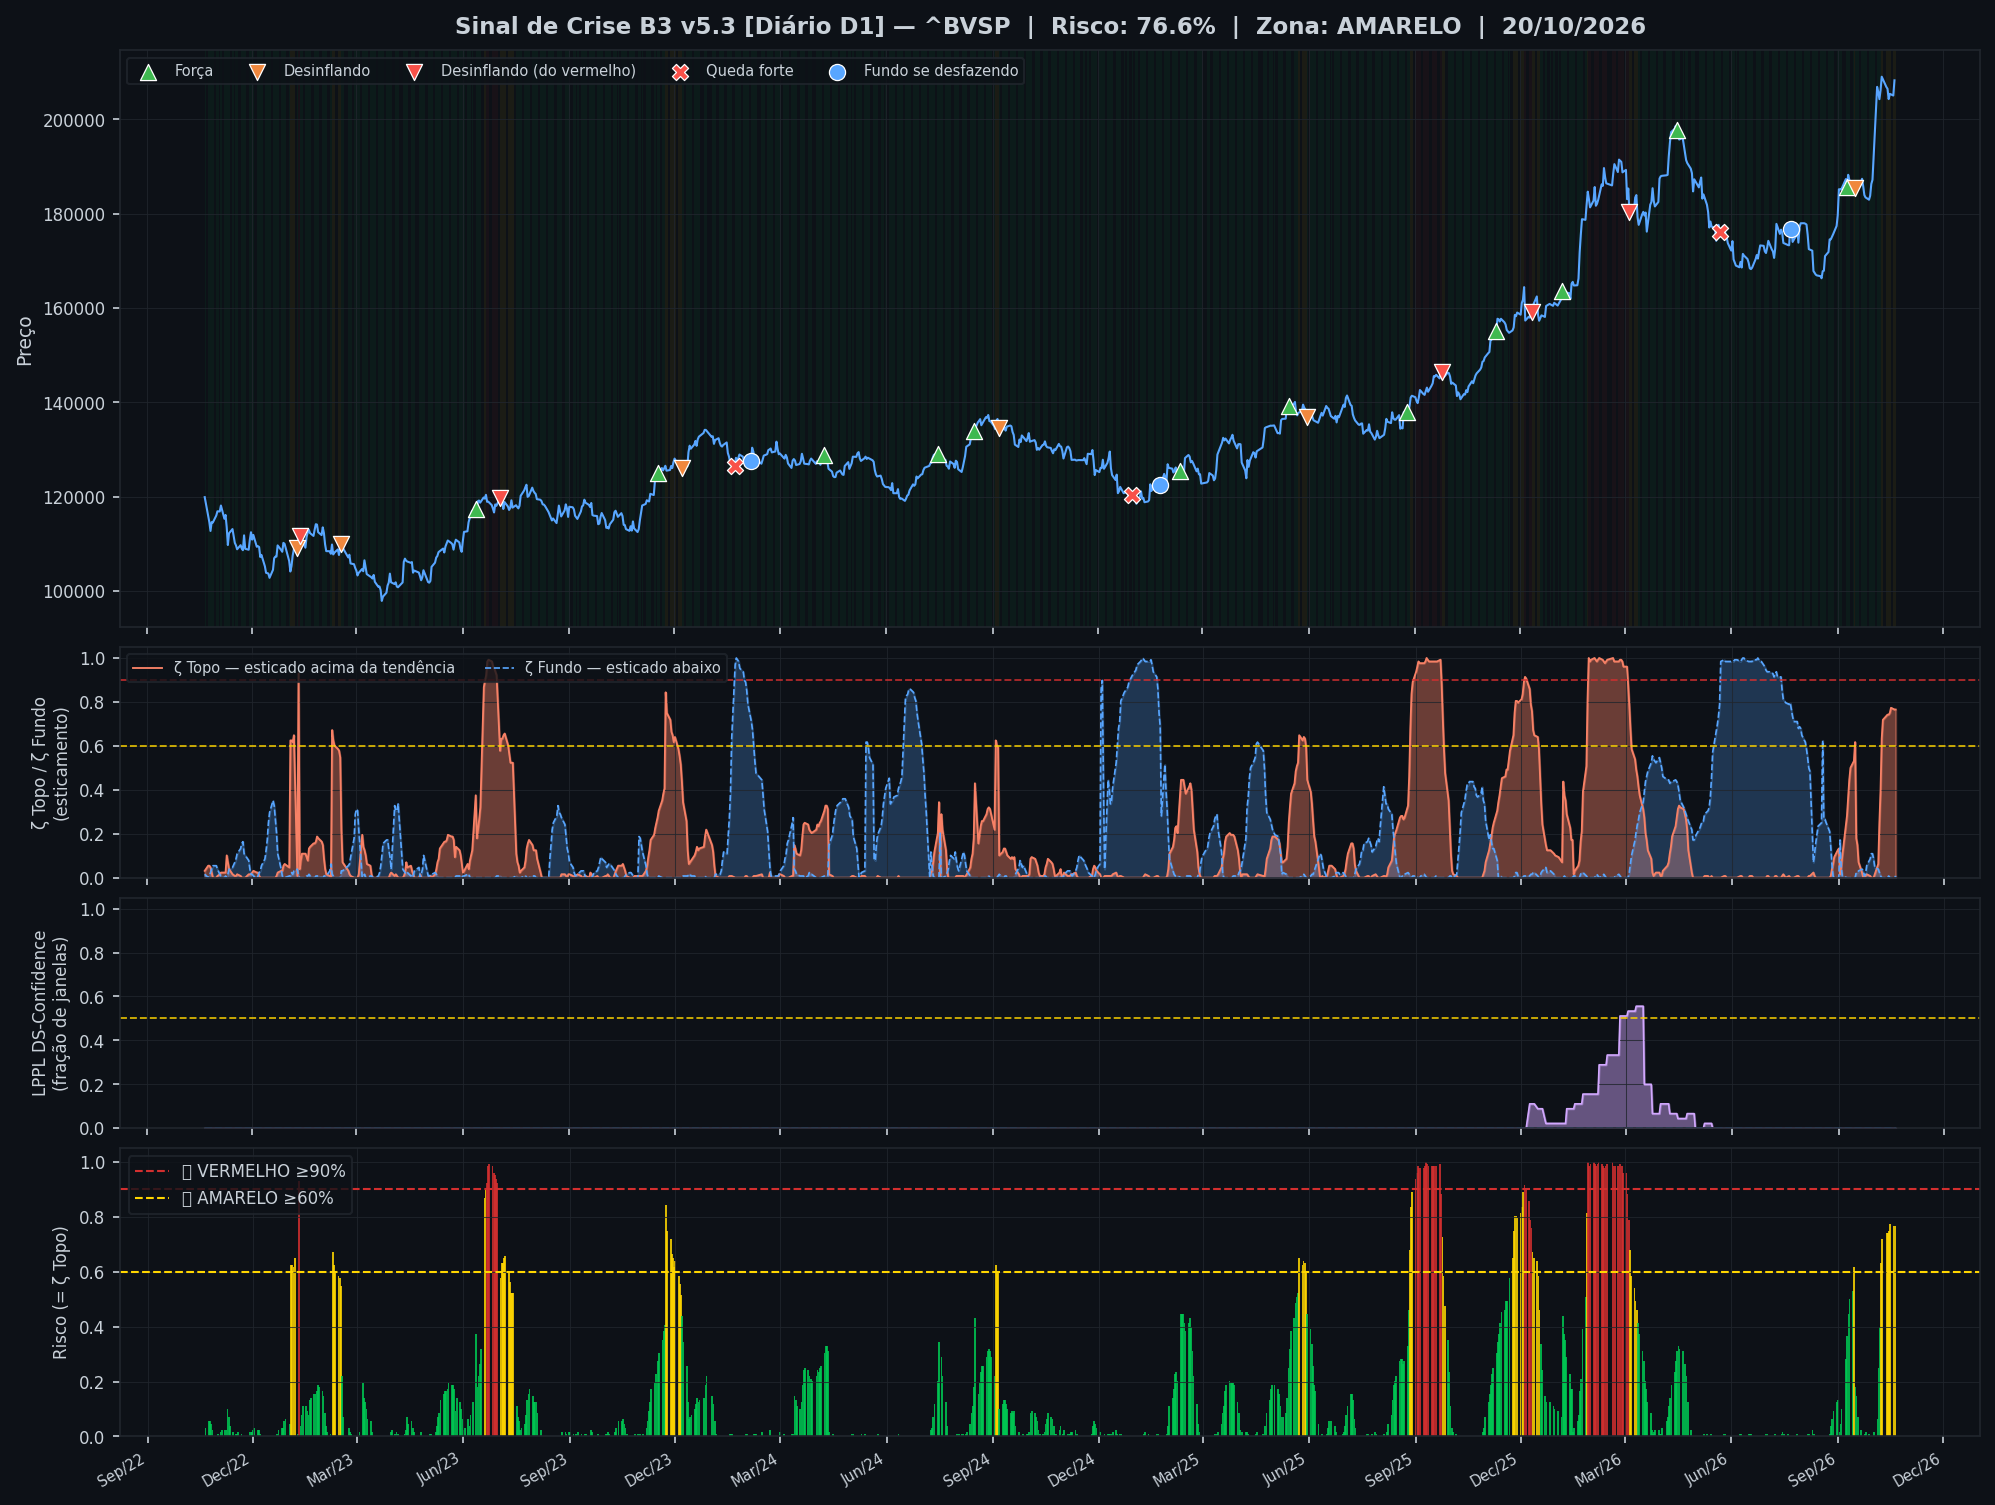
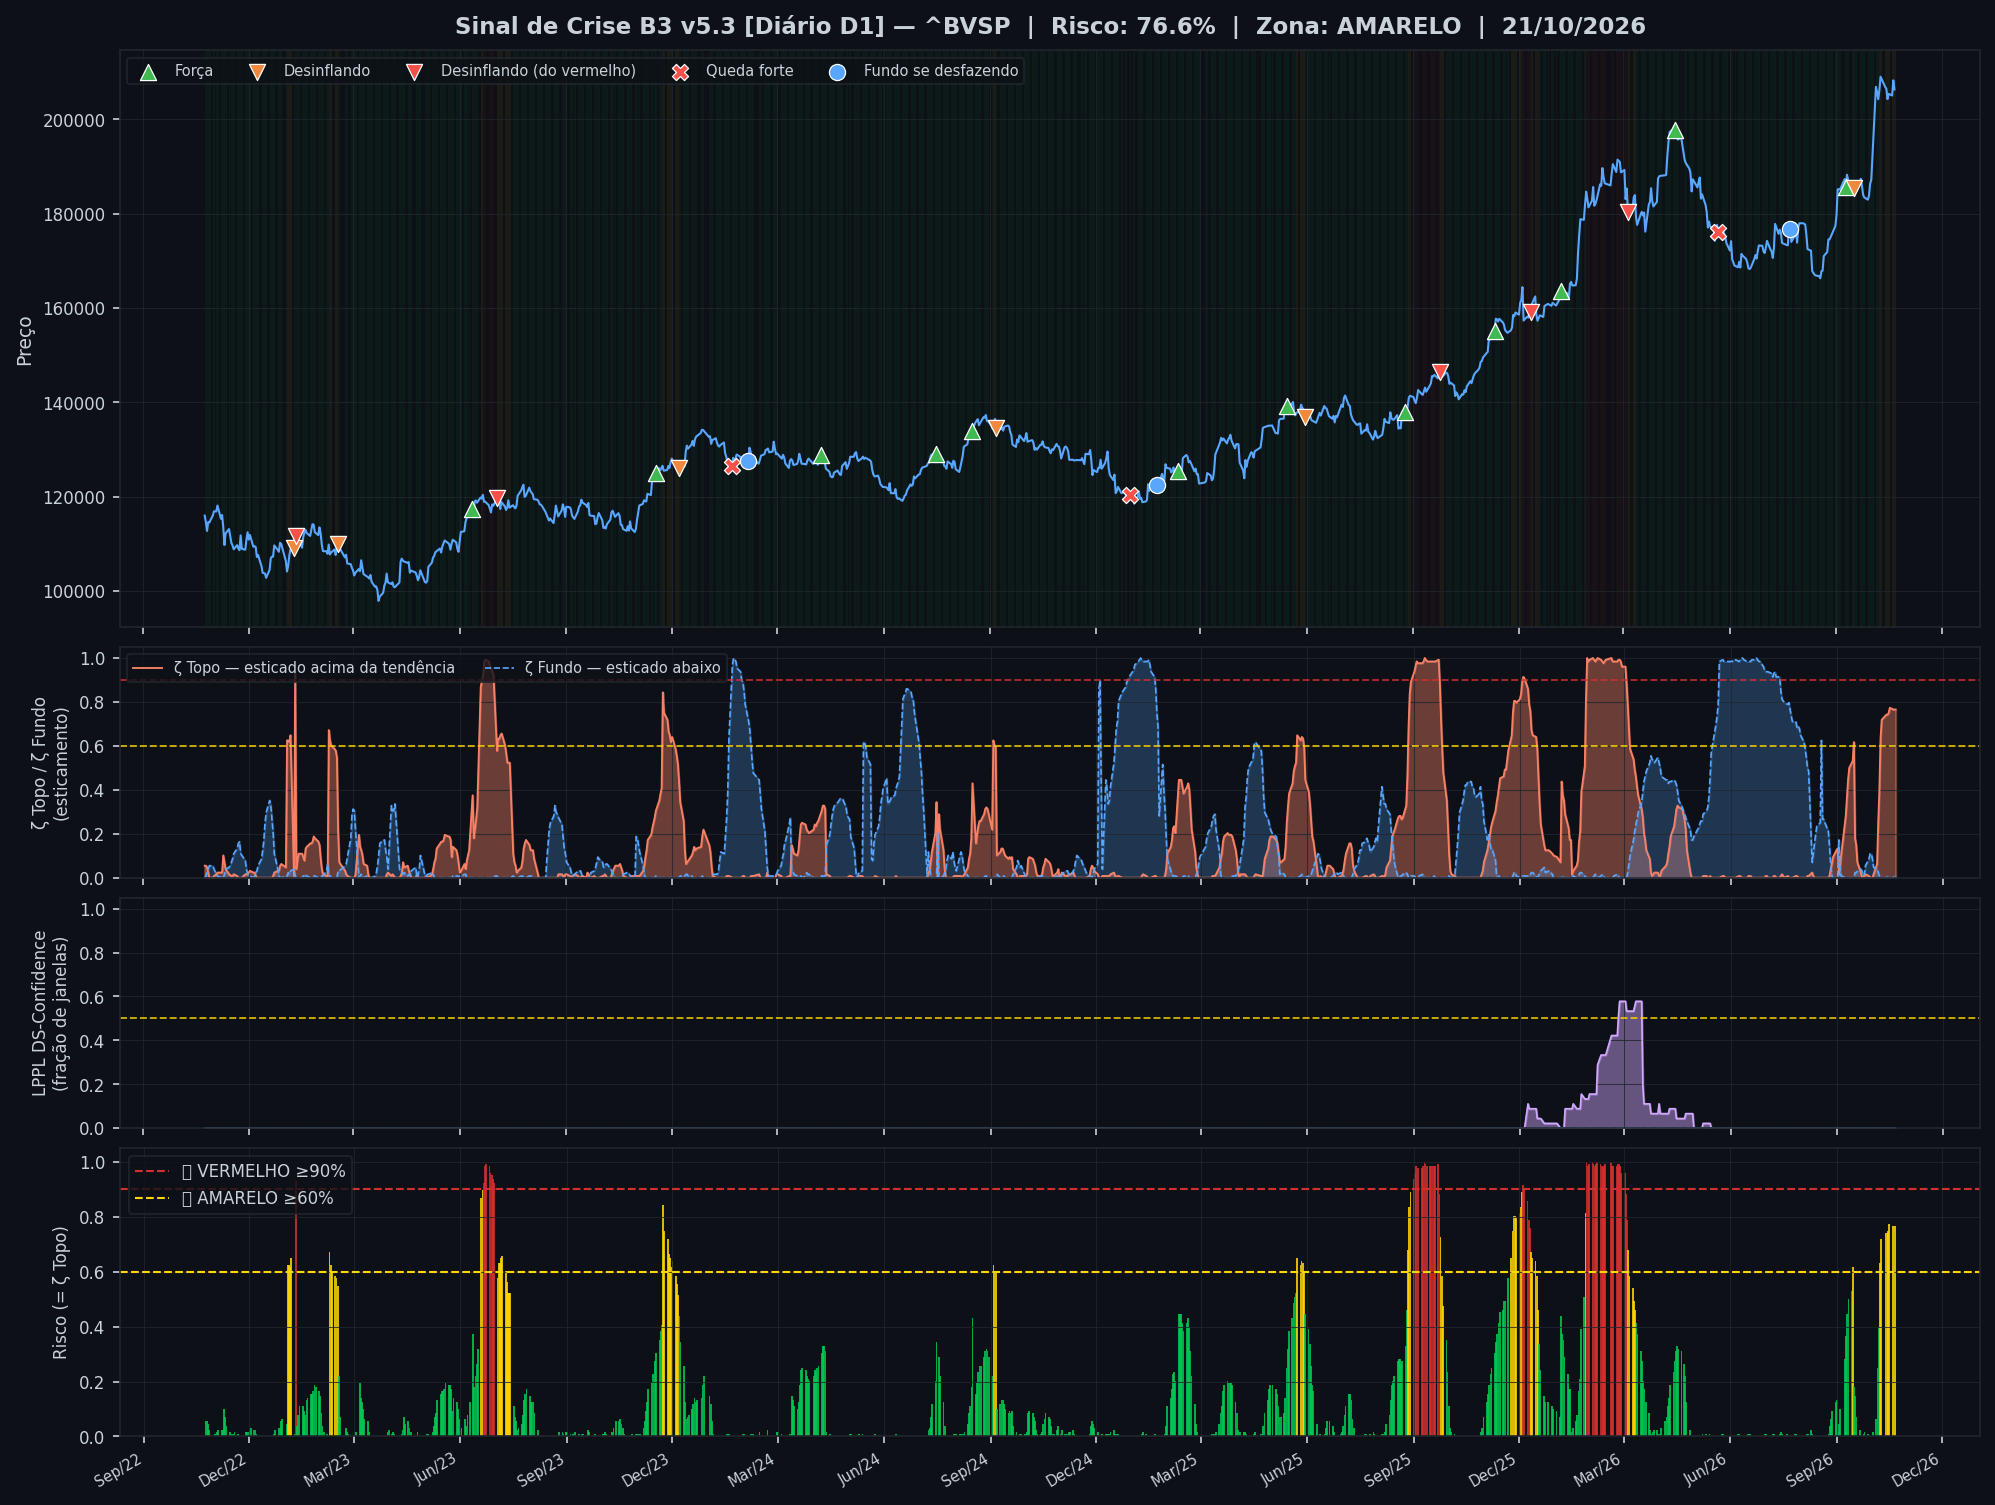
🤖 Auto: Sinal 21/10/2026 17:56

diff --git a/content/diario/2026-10-21.md b/content/diario/2026-10-21.md
@@ -1,0 +1,126 @@
+---
+title: "🟡 Diário 21/10/2026 — AMARELO"
+date: 2026-10-21
+tags: [diario]
+---
+
+> [!warning] 🔥 Sinal forte em formação (confirma no fechamento do candle)
+> - 🔴 Mensal · TOPO · **RSI75+MV** — RSI≥75 e MACD-V≥130
+> - 🔴 Semanal · TOPO · **FD+CCI** — Fechou fora→dentro da BB superior + CCI≥200
+>
+> [Ver os sinais](sinais-topo-fundo/)
+
+> [!warning] 🟡 **AMARELO** — Risco 77% · ＝ +0 p.p. vs leitura anterior
+> `███████████████░░░░░`
+> Atenção — preço esticado acima da tendência.
+
+
+> [!warning] ⚠ Nível alto agora
+> - 🟡 **ζ Topo 77%** — preço esticado acima da tendência (risco de reversão)
+
+> [!note] 🧭 Situação: 🟡 **Preço esticado acima da tendência**
+> 👉 não aumentar posição, subir stop, realizar parcial
+>
+> Eventos recentes: 📉 16/09 Esticamento desinflando · 🚀 09/09 Força · 🌱 23/07 Fundo se desfazendo · 🔪 22/05 Queda forte — não segure a faca
+>
+> *Estatística de 26 anos, não recomendação. [Como usar](../metodologia#3-como-usar-na-prática).*
+
+| Indicador | Valor |
+|---|---|
+| 🔴 ζ Topo — preço esticado acima da tendência | 🟡 **77%** |
+| 🔵 ζ Fundo — preço esticado abaixo da tendência | 1% |
+| 🫧 LPPL bolha — alta super-exponencial (risco de crash) | 0% |
+| 🫧 LPPL antibolha — queda super-exponencial (risco de repique) | 0% |
+| 📊 Ibovespa | 206.380 pts |
+
+![Gráfico do sinal](../graficos/sinal_diario.png)
+
+## Últimos 30 pregões
+
+| Data | Zona | Evento | Risco | ζ Topo | ζ Fundo | LPPL |
+|---|---|---|---|---|---|---|
+| 2026-10-21 | 🟡 AMARELO |  | 🟡 **77%** | 🟡 **77%** | 1% | 0% |
+| 2026-10-20 | 🟡 AMARELO |  | 🟡 **77%** | 🟡 **77%** | 1% | 0% |
+| 2026-10-19 | 🟡 AMARELO |  | 🟡 **77%** | 🟡 **77%** | 0% | 0% |
+| 2026-10-16 | 🟡 AMARELO |  | 🟡 **77%** | 🟡 **77%** | 0% | 0% |
+| 2026-10-15 | 🟡 AMARELO |  | 🟡 **75%** | 🟡 **75%** | 0% | 0% |
+| 2026-10-14 | 🟡 AMARELO |  | 🟡 **74%** | 🟡 **74%** | 1% | 0% |
+| 2026-10-13 | 🟡 AMARELO |  | 🟡 **74%** | 🟡 **74%** | 0% | 0% |
+| 2026-10-09 | 🟡 AMARELO |  | 🟡 **72%** | 🟡 **72%** | 0% | 0% |
+| 2026-10-08 | 🟡 AMARELO |  | 🟡 **63%** | 🟡 **63%** | 0% | 0% |
+| 2026-10-07 | 🟢 VERDE |  | **40%** | 40% | 1% | 0% |
+| 2026-10-06 | 🟢 VERDE |  | **25%** | 25% | 2% | 0% |
+| 2026-10-05 | 🟢 VERDE |  | **6%** | 6% | 4% | 0% |
+| 2026-10-02 | 🟢 VERDE |  | **2%** | 2% | 5% | 0% |
+| 2026-10-01 | 🟢 VERDE |  | **0%** | 0% | 9% | 0% |
+| 2026-09-30 | 🟢 VERDE |  | **0%** | 0% | 11% | 0% |
+| 2026-09-29 | 🟢 VERDE |  | **0%** | 0% | 11% | 0% |
+| 2026-09-28 | 🟢 VERDE |  | **1%** | 1% | 9% | 0% |
+| 2026-09-25 | 🟢 VERDE |  | **2%** | 2% | 5% | 0% |
+| 2026-09-24 | 🟢 VERDE |  | **1%** | 1% | 2% | 0% |
+| 2026-09-23 | 🟢 VERDE |  | **0%** | 0% | 1% | 0% |
+| 2026-09-22 | 🟢 VERDE |  | **0%** | 0% | 3% | 0% |
+| 2026-09-21 | 🟢 VERDE |  | **2%** | 2% | 4% | 0% |
+| 2026-09-18 | 🟢 VERDE |  | **7%** | 7% | 3% | 0% |
+| 2026-09-17 | 🟢 VERDE |  | **15%** | 15% | 2% | 0% |
+| 2026-09-16 | 🟢 VERDE | 📉 | **18%** | 18% | 2% | 0% |
+| 2026-09-15 | 🟡 AMARELO |  | 🟡 **62%** | 🟡 **62%** | 0% | 0% |
+| 2026-09-14 | 🟢 VERDE |  | **53%** | 53% | 0% | 0% |
+| 2026-09-11 | 🟢 VERDE |  | **50%** | 50% | 0% | 0% |
+| 2026-09-10 | 🟢 VERDE |  | **45%** | 45% | 0% | 0% |
+| 2026-09-09 | 🟢 VERDE | 🚀 | **37%** | 37% | 0% | 0% |
+
+<small>Destaques: 🟡 ≥ 60% · 🔴 ≥ 90% (Risco e ζ Topo) · 🔵 ≥ 60% · 🔪 ≥ 90% (ζ Fundo) · 🫧 ≥ 30% · 🫧🔴 ≥ 50% (LPPL)</small>
+
+## Monitor Multi-Ativo
+
+**29% dos ativos em tensão** (6🔴 1🟡) · **2 com ζ Fundo alto** — quanto mais ativos disparam juntos, mais confiável o sinal.
+
+> [!danger] Em destaque no multi-ativo
+> 🔪 **WEG** ζ Fundo 99% · 🔪 **VIBRA** ζ Fundo 98% · 🔴 **B3** ζ Topo 98% · 🔴 **BTGP BANCO** ζ Topo 98% · 🔴 **EQUATORIAL** ζ Topo 98% · 🔴 **LOCALIZA** ζ Topo 97% · 🔴 **REDE D OR** ζ Topo 96% · 🟡 **BRADESCO** ζ Topo 89% · 🟡 **SABESP** ζ Topo 88%
+
+| Zona | Ativo | Setor | ζ Topo | ζ Fundo |
+|---|---|---|---|---|
+| 🟢 | **WEG** | Industrial | 0.0% | 🔪 **99.2%** |
+| 🟢 | **VIBRA** | Energia | 0.0% | 🔪 **98.4%** |
+| 🔴 | **B3** | Financeiro | 🔴 **97.7%** | 2.3% |
+| 🔴 | **BTGP BANCO** | Financeiro | 🔴 **97.7%** | 1.6% |
+| 🔴 | **EQUATORIAL** | Energia | 🔴 **97.7%** | 0.8% |
+| 🔴 | **LOCALIZA** | Aluguel | 🔴 **96.9%** | 1.6% |
+| 🔴 | **REDE D OR** | Saúde | 🔴 **96.1%** | 1.6% |
+| 🔴 | **BRADESCO** | Financeiro | 🟡 **89.1%** | 0.8% |
+| 🟡 | **SABESP** | Saneamento | 🟡 **87.5%** | 0.8% |
+| 🟢 | **AMBEV S/A** | Consumo | 43.0% | 0.0% |
+| 🟢 | **ENEVA** | Energia | 38.3% | 0.8% |
+| 🟢 | **ITAUUNIBANCO** | Financeiro | 37.5% | 2.3% |
+| 🟢 | **PETROBRAS** | Petróleo | 35.9% | 0.0% |
+| 🟢 | **VALE** | Mineração | 0.0% | 35.2% |
+| 🟢 | **PETROBRAS** | Petróleo | 32.0% | 0.0% |
+| 🟢 | **PRIO** | Petróleo | 20.3% | 0.0% |
+| 🟢 | **GERDAU** | Siderurgia | 9.4% | 1.6% |
+| 🟢 | **COPEL** | Energia | 7.8% | 0.0% |
+| 🟢 | **ITAUSA** | Financeiro | 6.2% | 7.0% |
+| 🟢 | **BRASIL** | Financeiro | 5.5% | 1.6% |
+| 🟢 | **EMBRAER** | Outros | 0.0% | 4.7% |
+| 🟢 | **USD/BRL** | Câmbio | 4.7% | 3.1% |
+| 🟢 | **ULTRAPAR** | Outros | 2.3% | 0.0% |
+| 🟢 | **AXIA ENERGIA** | Energia | 0.8% | 0.0% |
+
+<small>Destaques: 🟡 ≥ 60% · 🔴 ≥ 90% (Risco e ζ Topo) · 🔵 ≥ 60% · 🔪 ≥ 90% (ζ Fundo) · 🫧 ≥ 30% · 🫧🔴 ≥ 50% (LPPL)</small>
+
+![Monitor multi-ativo](../graficos/multi_diario.png)
+
+*Página atualizada em 21/10/2026 17:56 BRT (leitura da barra de 2026-10-21 BRT).*
+
+> [!info]- Como interpretar (clique para expandir)
+> - **ζ Topo**: fração dos coeficientes wavelet (Chapéu Mexicano, Caetano & Yoneyama 2009) acima de +0,8σ na faixa mais recente. Na ponta da série isso acontece quando o preço termina **esticado acima da tendência** em muitas escalas — euforia/topo. ζ=0,90 é o limiar de Caetano: quedas que partiram desse padrão foram mais fundas. **É risco de reversão, não data do crash.**
+> - **ζ Fundo**: o espelho — preço esticado abaixo da tendência, possível região de compra.
+> - **LPPL DS-Confidence**: fração de 45 janelas (60–500 pregões) em que o modelo de Sornette produz um ajuste válido. **Bolha** (B<0): alta super-exponencial, risco de crash. **Antibolha** (B>0): queda super-exponencial, risco de repique. Evidência complementar; **não entra na zona**.
+> - **Zonas com histerese**: o sinal só muda de zona ao cruzar o limiar de entrada, e só volta ao cruzar o de saída — evita flip-flop diário.
+
+
+---
+*Sinal de Crise B3 v4 · IMA Wavelet ([Caetano & Yoneyama, Physica-A 2007](https://doi.org/10.1016/j.physa.2007.03.054)) + LPPL DS-Confidence (Sornette, ETH-Zurich) · [Metodologia](metodologia) · [Histórico](historico)*
+
+> [!quote]- Aviso
+> Estudo acadêmico. Não constitui recomendação de investimento.

diff --git a/content/index.md b/content/index.md
@@ -4,38 +4,42 @@ date: 2026-10-21
 tags: [home]
 ---
 
-# 🟢 Sinal de Crise B3
+# 🟡 Sinal de Crise B3
 
 Monitoramento diário e intraday do Ibovespa — **IMA Wavelet** (Prof. Marco Antonio Leonel Caetano, ITA/INSPER) + **LPPL DS-Confidence** (Prof. Didier Sornette, ETH-Zurich).
 
-*Última atualização: 21/10/2026 17:30 BRT · ^BVSP · Intraday 15min · v5.3*
+*Última atualização: 21/10/2026 17:56 BRT · ^BVSP · Diário D1 · v5.3*
 
 > [!warning] 🔥 Sinal forte em formação (confirma no fechamento do candle)
 > - 🔴 Mensal · TOPO · **RSI75+MV** — RSI≥75 e MACD-V≥130
+> - 🔴 Semanal · TOPO · **FD+CCI** — Fechou fora→dentro da BB superior + CCI≥200
 >
 > [Ver os sinais](sinais-topo-fundo/)
 
-> [!success] 🟢 **VERDE** — Risco 0% · ＝ +0 p.p. vs leitura anterior
-> `░░░░░░░░░░░░░░░░░░░░`
-> Preço na faixa normal em torno da tendência.
+> [!warning] 🟡 **AMARELO** — Risco 77% · ＝ +0 p.p. vs leitura anterior
+> `███████████████░░░░░`
+> Atenção — preço esticado acima da tendência.
 
 
+> [!warning] ⚠ Nível alto agora
+> - 🟡 **ζ Topo 77%** — preço esticado acima da tendência (risco de reversão)
 
-
-> [!note] 🧭 Viés do diário (2026-10-20): 🟡 **Preço esticado acima da tendência**
+> [!note] 🧭 Situação: 🟡 **Preço esticado acima da tendência**
 > 👉 não aumentar posição, subir stop, realizar parcial
+>
+> Eventos recentes: 📉 16/09 Esticamento desinflando · 🚀 09/09 Força · 🌱 23/07 Fundo se desfazendo · 🔪 22/05 Queda forte — não segure a faca
 >
 > *Estatística de 26 anos, não recomendação. [Como usar](metodologia#3-como-usar-na-prática).*
 
 | Indicador | Valor |
 |---|---|
-| 🔴 ζ Topo — preço esticado acima da tendência | **0%** |
-| 🔵 ζ Fundo — preço esticado abaixo da tendência | 19% |
+| 🔴 ζ Topo — preço esticado acima da tendência | 🟡 **77%** |
+| 🔵 ζ Fundo — preço esticado abaixo da tendência | 1% |
 | 🫧 LPPL bolha — alta super-exponencial (risco de crash) | 0% |
 | 🫧 LPPL antibolha — queda super-exponencial (risco de repique) | 0% |
 | 📊 Ibovespa | 206.380 pts |
 
-**Multi-ativo:** 0% em tensão (0🔴 1🟡 de 24 ativos)
+**Multi-ativo:** 29% em tensão (6🔴 1🟡 de 24 ativos)
 
 
 > [!tip]- O que 26 anos de dados mostram
@@ -45,8 +49,13 @@ Monitoramento diário e intraday do Ibovespa — **IMA Wavelet** (Prof. Marco An
 
 | Data | Zona | Risco | ζ Topo | ζ Fundo | LPPL |
 |---|---|---|---|---|---|
-| [21 Oct 2026](intraday/2026-10-21) | 🟢 VERDE | **0%** | 0% | 19% | 0% |
-| [20 Oct 2026](intraday/2026-10-20) | 🟢 VERDE | **18%** | 18% | 0% | 0% |
+| [21 Oct 2026](diario/2026-10-21) | 🟡 AMARELO | 🟡 **77%** | 🟡 **77%** | 1% | 0% |
+| [20 Oct 2026](diario/2026-10-20) | 🟡 AMARELO | 🟡 **77%** | 🟡 **77%** | 1% | 0% |
+| [19 Oct 2026](diario/2026-10-19) | 🟡 AMARELO | 🟡 **77%** | 🟡 **77%** | 0% | 0% |
+| [16 Oct 2026](diario/2026-10-16) | 🟡 AMARELO | 🟡 **77%** | 🟡 **77%** | 0% | 0% |
+| [15 Oct 2026](diario/2026-10-15) | 🟡 AMARELO | 🟡 **75%** | 🟡 **75%** | 0% | 0% |
+| [14 Oct 2026](diario/2026-10-14) | 🟡 AMARELO | 🟡 **74%** | 🟡 **74%** | 1% | 0% |
+| [13 Oct 2026](diario/2026-10-13) | 🟡 AMARELO | 🟡 **74%** | 🟡 **74%** | 0% | 0% |
 
 <small>Destaques: 🟡 ≥ 60% · 🔴 ≥ 90% (Risco e ζ Topo) · 🔵 ≥ 60% · 🔪 ≥ 90% (ζ Fundo) · 🫧 ≥ 30% · 🫧🔴 ≥ 50% (LPPL)</small>
 

diff --git a/content/sinais-topo-fundo/index.md b/content/sinais-topo-fundo/index.md
@@ -9,11 +9,12 @@ Candles de Oliver Velez + RSI, CCI, MACD-V e Bollinger — só os sinais que tiv
 
 📘 [Tutorial — como ler e usar](sinais-topo-fundo/tutorial) · 📋 [Todos os sinais (fortes e moderados)](sinais-topo-fundo/todos-os-sinais)
 
-> [!note] Nenhum sinal no fechamento de 20/10/2026
+> [!note] Nenhum sinal no fechamento de 21/10/2026
 > Os blocos 🔥 aparecem aqui (e na página inicial) no dia em que surge um sinal **forte**.
 
 > [!warning] 🔥 Sinal FORTE em formação (ainda pode sumir até o candle fechar)
 > - Mensal · TOPO · **RSI75+MV** — RSI≥75 e MACD-V≥130 (62%, 2,7× o acaso)
+> - Semanal · TOPO · **FD+CCI** — Fechou fora→dentro da BB superior + CCI≥200 (68%, 2,6× o acaso)
 > 
 > *Semanal confirma na sexta; mensal no último pregão do mês.*
 
@@ -45,7 +46,7 @@ Os moderados ficam em [Todos os sinais](sinais-topo-fundo/todos-os-sinais).
 | Diário | **BT+RSI** (73%), **BT+CCI** (57%), **FD+RSI** (71%) | — |
 | H4 | — | — |
 
-*Atualizado em 21/10/2026 13:13 BRT (último pregão fechado: 20/10/2026). Dados: Yahoo (^BVSP); semanal e mensal reamostrados do diário; H4 do 60 min.*
+*Atualizado em 21/10/2026 17:56 BRT (último pregão fechado: 21/10/2026). Dados: Yahoo (^BVSP); semanal e mensal reamostrados do diário; H4 do 60 min.*
 
 > [!quote]- Aviso
 > Estudo estatístico. Não constitui recomendação de investimento.

diff --git a/content/sinais-topo-fundo/todos-os-sinais.md b/content/sinais-topo-fundo/todos-os-sinais.md
@@ -84,4 +84,4 @@ Histórico de cada tempo gráfico, do mais recente para o mais antigo. Linhas co
 | 12/08/2026 10h | 🟢 FUNDO | **FD+RSI** — Fechou fora→dentro da BB inferior + RSI≤30 | moderado | 50% | 2,5× |
 | 10/08/2026 10h | 🟢 FUNDO | **BT+BB** — Bottom tail tocando a BB inferior | moderado | 53% | 3,1× |
 
-*Atualizado em 21/10/2026 13:13 BRT.*
+*Atualizado em 21/10/2026 17:56 BRT.*

diff --git a/content/historico.md b/content/historico.md
@@ -7,6 +7,7 @@ tags: [historico]
 
 | Data | Modo | Zona | Risco | IMA | LPPL |
 |---|---|---|---|---|---|
+| 2026-10-21 | diario | 🟡 AMARELO | 🟡 **77%** | 🟡 **77%** | 0% |
 | 2026-10-21 16:45 | intraday | 🟢 VERDE | 0% | 0% | 0% |
 | 2026-10-21 16:30 | intraday | 🟢 VERDE | 0% | 0% | 0% |
 | 2026-10-21 16:15 | intraday | 🟢 VERDE | 0% | 0% | 0% |
